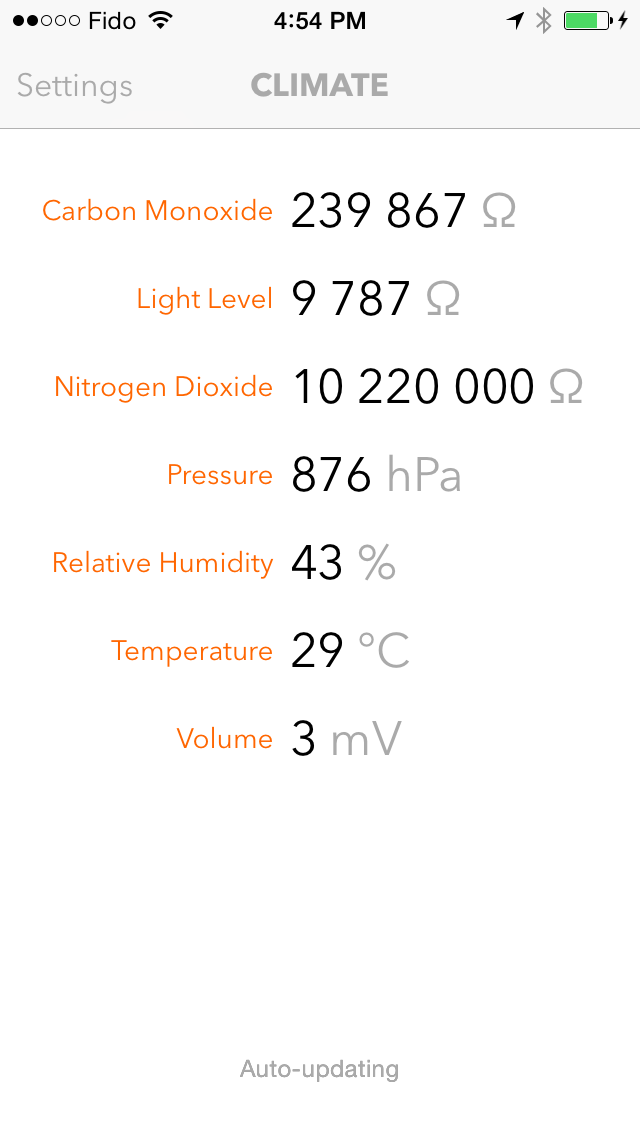
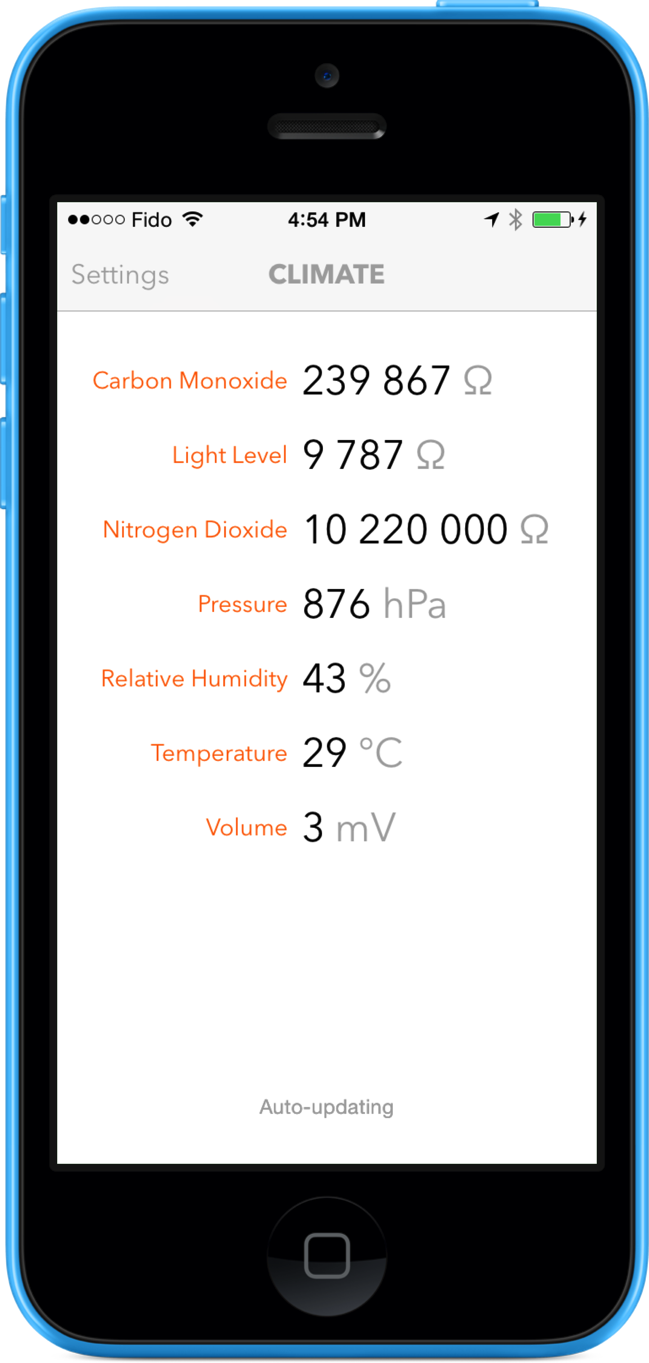
Update preview image with device border

diff --git a/README.md b/README.md
@@ -3,7 +3,7 @@ Climate
 
 A little Swift app to display the latest environment data from an [AirPi](http://airpi.es)
 
-<img src="preview.png" width="320" height="568" />
+<img src="preview.png" width="325" height="682" />
 
 ## Usage
 Enter your Xively API key and feed ID in the AppDelegate where defaults are registered. The app will subscribe to the changes that get pushed down from Xively to your iOS device.
